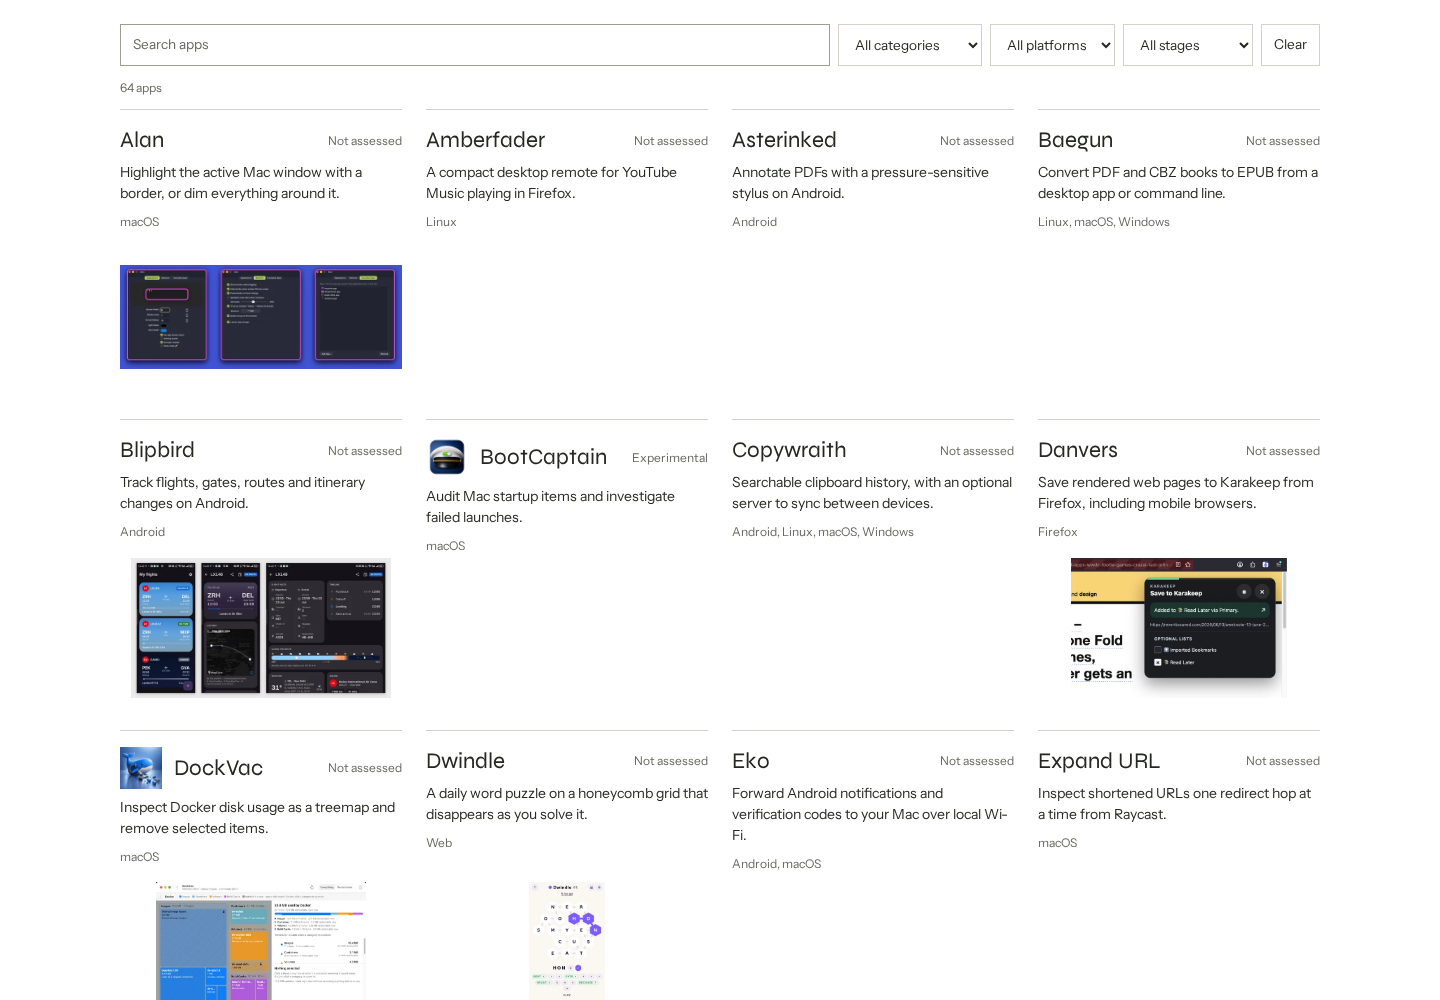
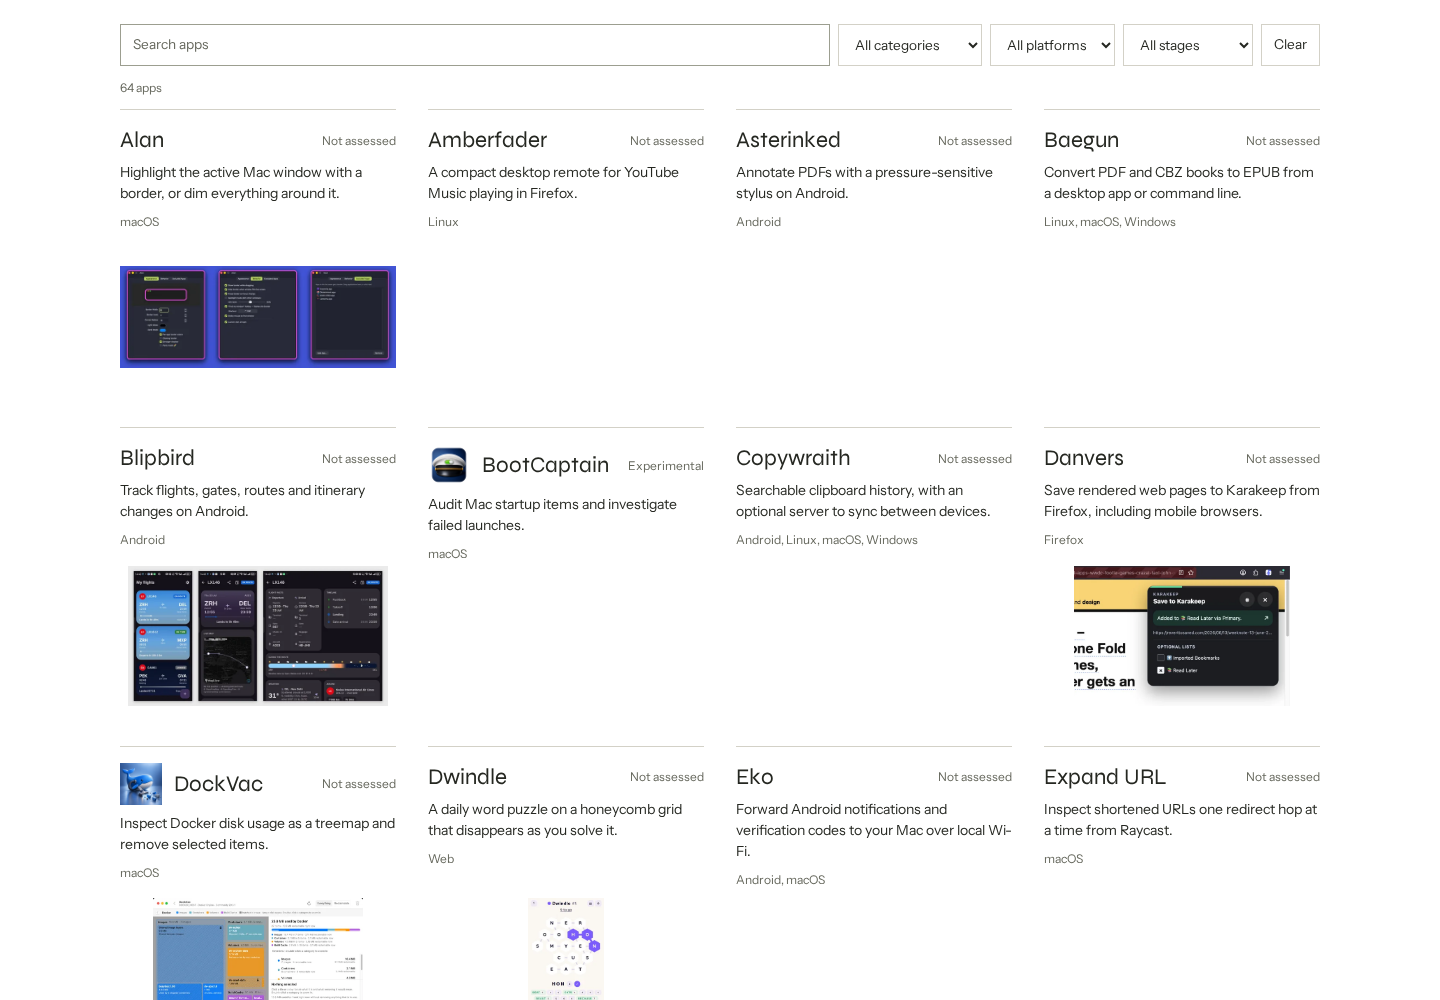
Increase spacing between app tiles
Give the grid more room with 24px row gaps and 32px column gaps.

diff --git a/public/style.css b/public/style.css
@@ -56,7 +56,7 @@ img { display: block; max-width: 100%; }
 .filters input::placeholder { color: var(--muted); }
 .filters select { max-width: 100%; }
 .result-count { color: var(--muted); font-size: 0.75rem; margin-block: 0.75rem; }
-.app-grid { display: grid; grid-template-columns: repeat(auto-fill, minmax(min(260px, 100%), 1fr)); gap: 1rem 1.5rem; padding: 0; margin: 0; list-style: none; }
+.app-grid { display: grid; grid-template-columns: repeat(auto-fill, minmax(min(260px, 100%), 1fr)); gap: 1.5rem 2rem; padding: 0; margin: 0; list-style: none; }
 .app-card { display: flex; flex-direction: column; gap: 0.5rem; min-width: 0; padding-block: 1rem; border-top: 1px solid var(--rule); }
 .card-heading { display: flex; gap: 0.75rem; align-items: center; }
 .card-heading h2 { flex: 1; min-width: 0; font-size: 1.4rem; line-height: 1.25; overflow-wrap: anywhere; }
